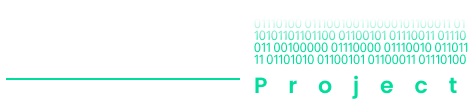
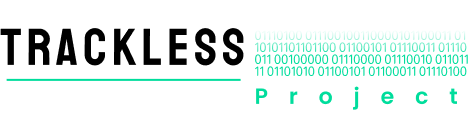
update img tcproject & currency list

diff --git a/application/views/auth/index.php b/application/views/auth/index.php
@@ -53,13 +53,7 @@
                     <div class="powered-top mb-3 me-5">
                         <span>Powered By</span>
                         <a href="https://tracklessproject.com/">
-                            <img src="<?= base_url() ?>assets/img/tc-project.png" alt="">
-                        </a>
-                    </div>
-                    <div class="powered-top mb-3">
-                        <span>Powered By</span>
-                        <a href="https://tracklesscrypto.com/">
-                            <img src="<?= base_url() ?>assets/img/tc-crypto-black.png" alt="">
+                            <img src="<?= base_url() ?>assets/img/tracklessproject.png" alt="">
                         </a>
                     </div>
                 </div>
@@ -526,13 +520,7 @@
                         <div class="powered-top mb-3 me-5">
                             <span>Powered By</span>
                             <a href="https://tracklessproject.com/">
-                                <img src="<?= base_url() ?>assets/img/tc-project.png" alt="">
-                            </a>
-                        </div>
-                        <div class="powered-top mb-3">
-                            <span>Powered By</span>
-                            <a href="https://tracklesscrypto.com/">
-                                <img src="<?= base_url() ?>assets/img/tc-crypto-black.png" alt="">
+                                <img src="<?= base_url() ?>assets/img/tracklessproject.png" alt="">
                             </a>
                         </div>
                     </div>

diff --git a/application/views/auth/landingpage/currency-list-price.php b/application/views/auth/landingpage/currency-list-price.php
@@ -75,18 +75,7 @@
 
                         <li class="list-group-item d-flex justify-content-between align-items-center">
                             <span class="w-50 me-auto text-start">Receiving International</span>
-                            <?php
-                                        if (($getcurrency == "USD") ||
-                                            ($getcurrency == "EUR") ||
-                                            ($getcurrency == "AUD") ||
-                                            ($getcurrency == "NZD") ||
-                                            ($getcurrency == "CAD") ||
-                                            ($getcurrency == "HUF") ||
-                                            ($getcurrency == "SGD") ||
-                                            ($getcurrency == "TRY") ||
-                                            ($getcurrency == "GBP") ||
-                                            ($getcurrency == "RON")
-                                        ) { ?>
+                            <?php if (($getcurrency == "USD") || ($getcurrency == "EUR") || ($getcurrency == "GBP")) { ?>
                             <span
                                 class="w-50 text-end text-blue-freedy"><?= number_format(($cost['topup_outside_fxd'] + $fee['topup_outside_fxd'] + $fee['referral_topup_fxd']), 2, ".", ",") ?>
                                 +

diff --git a/application/views/member/index.php b/application/views/member/index.php
@@ -59,7 +59,7 @@
                                         </linearGradient>
                                     </defs>
                                 </svg>
-                                <span class="ms-2">Sellect Currencies</span>
+                                <span class="ms-2">Select Currencies</span>
                             </a>
                         </div>
                     </div>
